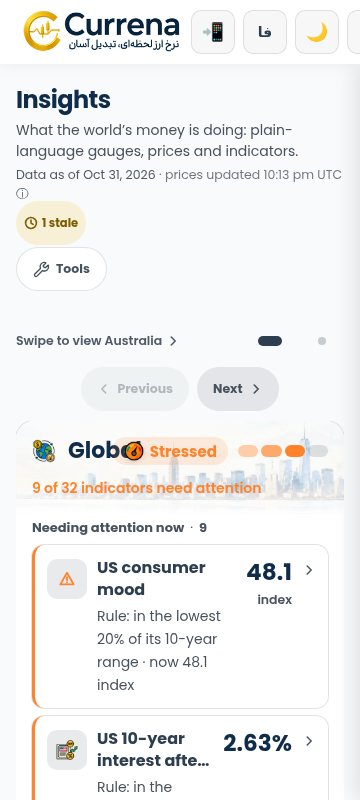
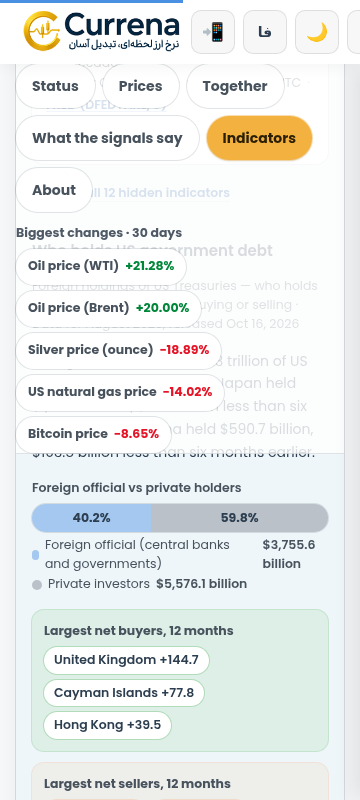
gap(S2-M2.4): progress + changelog + verified-sources (browser-verified EN/fa 360/1200; WSEFINTL1 verified, card deferred to S3-M3.1)

diff --git a/docs/gap-closure/VERIFIED-SOURCES.md b/docs/gap-closure/VERIFIED-SOURCES.md
@@ -14,8 +14,9 @@ normal clients).
 
 | Source | URL | Status | Notes |
 |---|---|---|---|
+| Treasury "Release Dates of TIC Data" (the TIC calendar's source of record) | `https://home.treasury.gov/data/treasury-international-capital-tic-system/release-dates-of-tic-data` | **verified** | The Treasury's own schedule page (reached from the TIC system page's left menu). Read 2026-10-31 with the honest UA: the monthly securities/MFH releases — 2026: Nov 18, Dec 15; 2027: Jan 19, Feb 18, Mar 18, Apr 15, May 18, Jun 16 (and beyond through 2027); releases at 4 p.m. Eastern; the page's own note confirms the **1.5-month lag** between release and as-of date (since 3-15-2021). All 8 calendar entries in `data/insights-calendar.json` (tic-2026-09 … tic-2027-04) verified against this page + the Oct 2026 press notice. |
 | FRED: OECD AU 10-year government bond yield (the S1-M1.5 fallback, NOT wired — the live RBA F2.1 monthly path works) | `https://fred.stlouisfed.org/graph/fredgraph.csv?id=IRLTLT01AUM156N` (series page: `https://fred.stlouisfed.org/series/IRLTLT01AUM156N`) | **verified (unwired fallback)** | Monthly, 1969-07 → 2026-09, latest 5.283 @ 2026-09-01 — the same September value the RBA F2.1 table serves (cross-verified 2026-10-31 from FRED's own fredgraph.csv, keyless). Licence read from the series page: **Copyrighted: Citation Required** (the same class as the DE sibling IRLTLT01DEM156N the bund-10y card uses — display-permitted WITH FRED attribution). Date convention differs from F2.1: FRED stamps the month START, RBA the month END. |
-| FRED: WSEFINTL1 — Treasuries held in custody for foreign official accounts (the weekly custody card, gap-closure S2-M2.4) | `https://fred.stlouisfed.org/graph/fredgraph.csv?id=WSEFINTL1` (series page: `https://fred.stlouisfed.org/series/WSEFINTL1`) | **verified** (S2, 2026-10-31 22:20 UTC, from the provider's own responses) | Title: "Memorandum Items: Custody Holdings: Securities in Custody for Foreign and International Accounts: Wednesday Level". Weekly (Wednesday level), Millions of USD, NSA. Keyless fredgraph.csv: 200, 22,279 B, 1,247 obs, 2002-12-18 → **2026-10-28** (fresh). Latest ≈ $2.838tn. Copyright class from the series page's own meta: **public domain** (FRB source) — NOT yet in the repo's T-16 scan (`data/fred-copyright.json`); the M2.4 recipe adds the scan entry. No country split (that is exactly the card's caveat). |
+| FRED: WSEFINTL1 — Treasuries held in custody for foreign official accounts (the weekly custody card, gap-closure S2-M2.4) | `https://fred.stlouisfed.org/graph/fredgraph.csv?id=WSEFINTL1` (series page: `https://fred.stlouisfed.org/series/WSEFINTL1`) | **verified (unwired — the card ships with S3-M3.1; both parallel sessions verified it independently 2026-10-31 ~22:20 UTC)** | Title: "Memorandum Items: Custody Holdings: Securities in Custody for Foreign and International Accounts: Wednesday Level". Weekly (Wednesday level), Millions of USD, NSA. Keyless fredgraph.csv: 200, 22,279 B, 1,247 obs, 2002-12-18 → **2026-10-28** (fresh). Latest ≈ $2.838tn. Copyright class from the series page's own meta: **public domain** (FRB source) — NOT yet in the repo's T-16 scan (`data/fred-copyright.json`); S3-M3.1 adds the scan entry when it wires the fetch (the M2.4 scoped deviation: series verified, ingest plumbing deliberately deferred to the FRED-family milestone — recorded in PROGRESS). No country split (that is exactly the card's caveat). fred.stlouisfed.org series pages were intermittently unreachable from the work venue mid-session (fredgraph.csv kept working) — retried successfully. |
 | TIC Table 5, Major Foreign Holders (tab-delimited) | `https://ticdata.treasury.gov/resource-center/data-chart-center/tic/Documents/slt_table5.txt` (HTML twin: `slt_table5.html`) | **verified** (S2-M2.1: fixture committed, layout mapped — SCRAPING_SPEC FS-08) | Header: `Country<TAB>2026-08<TAB>2026-07 ...` 13 monthly columns, billions USD, CRLF, real TABs throughout — the planning-chat "merged numbers" (`862.5901.3`) was a chat-preview artifact, hex-dump 2026-10-31 confirmed one TAB between `862.5` and `901.3` (UK 2025-09/2025-08). Latest = 2026-08 (released 2026-10-16; **next release 2026-11-18** for Sep 2026, per the Treasury press notice). 20 country rows: Japan, United Kingdom, China Mainland, Belgium, Canada, Cayman Islands, Luxembourg, France, Ireland, Taiwan, Switzerland, Singapore, Hong Kong, India, Norway, Brazil, Saudi Arabia, Korea South, UAE, Bermuda + `All Other`, `Grand Total`, `Of Which: Foreign Official`, `Of Which: Foreign Official Treasury Bills` (the official/private split rows). **Australia is not in the top-20 list of Table 5; it is in Table 3.** Fixture: `packages/insights/fixtures/tic/slt_table5-2026-10-31.txt`. |
 | TIC Table 3, U.S. Treasury securities held by foreign residents, all countries | `https://ticdata.treasury.gov/resource-center/data-chart-center/tic/Documents/slt_table3.txt` | **verified** (S2-M2.1: full layout read from the provider's own response, fixture committed — SCRAPING_SPEC FS-08) | 10 tab-delimited columns, millions USD, CRLF: `country, country_code, date, for_treas_pos, for_treas_net, for_lt_treas_pos, for_lt_treas_net, for_lt_treas_valchg, for_st_treas_pos, for_st_treas_net` (Total holdings/net, long-term holdings/net/valuation-change, short-term holdings/net). Sign: positive net = foreigners NET BOUGHT. ~106 distinct rows: every country incl. **Australia (code 60089)**, plus `All Countries`, `Grand Total`, `Total IROs`, `International`, `Of Which: Foreign Official/Non-Official`, `Memo: Euro Area/European Union`, then footer notes (custody caveat verbatim: "The data in this table are collected primarily from U.S.-based custodians…") + column definitions. Monthly `YYYY-MM` rows, 2020-01 → 2026-08 (~80 months, newest first). **Series break: the 3 transactions columns are `n.a.` for every country before 2023-02** (holdings go back to 2020-01) — 12-month sums must skip `n.a.`, never zero them. Cross-verified vs Table 5: Japan 2026-08 `1068283 M` = `1068.3 B`; Grand Total `9331654 M` = `9331.7 B`. Short-term bill nets are ESTIMATED by Treasury as month-over-month position change (footnote 2/). Fixture: `packages/insights/fixtures/tic/slt_table3-2026-10-31.txt`. |
 | Treasury TIC landing and notices | `https://home.treasury.gov/data/treasury-international-capital-tic-system` | verified | Describes tables; states custody caveats; a notice dated 2026-06-10 mentions a mandatory survey (read it). Press releases carry the next release date. |
@@ -86,6 +87,8 @@ No free, licence-clean feed exists for: MOVE index, Baltic Dry Index, cross-curr
 
 | Date | Session | Finding |
 |---|---|---|
+| 2026-10-31 | S2-M2.4 | WSEFINTL1 (the weekly NY-Fed custody series) VERIFIED — weekly to 2026-10-28, latest 2,838,071 $M, **public domain** per the FRED series page's own tag (read 2026-10-31; not yet in the T-16 scan — S3-M3.1 adds it). The card ships with S3-M3.1 (scoped deviation recorded: series verified, ingest plumbing deferred). The Treasury "Release Dates of TIC Data" page verified as the calendar's source of record — the builder session's 7 later dates (Dec 15 2026 → Jun 16 2027) all confirmed against it by the verifier session (the builder had not recorded the URL; now recorded). fred.stlouisfed.org series pages intermittently unreachable from the work venue mid-session (fredgraph.csv kept working) — retried successfully. |
+| 2026-10-31 | S2-M2.3 | The TIC release calendar: 2026-11-18 (Sep data) verified from the Oct 2026 press-notice PDF ("The next release … is scheduled for November 18, 2026"); the builder session added the 7 later dates (verified against the Release Dates page, see the S2-M2.4 row). `GET /api/insights/tic` live: one KV read, ETag/304 verified, the hidden-boards kill switch armed via the generator's `tic` directive (L0 → public). |
 | 2026-10-31 | S2-M2.1 | Both TIC tables VERIFIED from the provider's own responses (fixtures committed: `packages/insights/fixtures/tic/slt_table5-2026-10-31.txt` + `slt_table3-2026-10-31.txt`, fetched 20:24 UTC from the work venue; Worker egress already proven by S1-M1.1). The Table-5 "merged numbers" was a chat-preview artifact — real TABs (hex-dump). Table 3's full layout mapped: 10 columns, millions, 2020-01 → 2026-08, ~106 rows incl. Australia (60089), `n.a.` transactions before the 2023-02 break, sign = positive net ⇒ foreigners bought, custody caveat verbatim in the footer (quoted in sources.ts `us-tic`), short-term bill nets are Treasury-estimated month-over-month positions. Cross-check T3↔T5 passed (Japan 1068283 M = 1068.3 B; Grand Total 9331654 M = 9331.7 B). Licence: L0 public domain (17 U.S.C. § 105), method card SCRAPING_SPEC FS-08, register rows `us-tic`/provider `tic`. |
 | 2026-10-31 | S1 close | S1 complete (7/7). Learned: RBA data continuity rides the F2.1 monthly table (the working venue — the FRED OECD mirror `IRLTLT01AUM156N` verified as the unwired fallback, citation-required); the AU/US gap's Sep-30/Oct-29 date mixing fixed by the 7-day leg guard (RULE_VERSION 4); GPR is context-by-design under the SD regime (its monthly SPEED is S4's to score); GitHub Actions' outage was a billing hold (lifted 10-31 14:34 UTC) + the invalid shiller-fetch.yml (fixed, run #141 green — the workflow's first-ever execution); the GHA venue works again (dry-run ingest #56 green); rung3/rung4 live at 04:30/04:35 UTC with the TIC registration recipe in docs/gap-closure/RUNGS.md. |
 | 2026-10-31 | S1 | Worker-egress probe table added (13 hosts, temp Worker `currena-probe`, deleted after). NY Fed GSCPI reachable from Workers (Akamai fear unfounded); ArcGIS slow (>12s first byte); FiscalData API blocked from Workers (timeout ×3, normal client fine); RBA 403 re-confirmed; everything else 200. |

diff --git a/docs/gap-closure/PROGRESS.md b/docs/gap-closure/PROGRESS.md
@@ -12,12 +12,12 @@ file at the end of every milestone (tick the box, add evidence) and every sessio
 | Session | Theme | Milestones done | % |
 |---|---|---|---|
 | S1 | Foundation and trust | 7 / 7 | 100% |
-| S2 | Foreign holdings of US Treasuries (priority feature) | 3 / 6 | 50% |
+| S2 | Foreign holdings of US Treasuries (priority feature) | 4 / 6 | 67% |
 | S3 | US credit, liquidity, fiscal and growth nowcast | 0 / 6 | 0% |
 | S4 | Geopolitics, supply chain and energy | 0 / 6 | 0% |
 | S5 | Australia deep-dive and Australian markets | 0 / 6 | 0% |
 | S6 | New Zealand link, China and world links, promotion and polish | 0 / 6 | 0% |
-| **Total** | | **10 / 37** | **27%** |
+| **Total** | | **11 / 37** | **30%** |
 <!-- gap-progress:end -->
 
 Gap coverage (from the 2026-10-31 gap analysis; tick when the gap is closed in production):
@@ -104,8 +104,13 @@ Gap coverage (from the 2026-10-31 gap analysis; tick when the gap is closed in p
   - **Calendar:** kind `tic` added to the core enum (+ the NextUpStrip TIC badge); entry `tic-2026-09` = **2026-11-18** (Sep 2026 data) — verified from the Treasury's own press-notice PDF ("The next release … is scheduled for November 18, 2026"); later dates ride each month's notice (the pattern `TIC-press-notice-<Mon>-<YYYY>.pdf`), never guessed — recorded in VERIFIED-SOURCES. fa title triaged **round-60** (terminology follows the «اوراق خزانهداری آمریکا» yield-card family; no em dash).
   - **Tests:** +21 (8 api route: 200/ETag, 304, not-ready, poisoned-key, stale-serves-verbatim, one-KV-read, private-mode AC-05, tic_unavailable; 13 web client). Gates ALL GREEN — **10,401 tests**. Registry regenerated; INDICATORS_AND_DATA_SOURCES §3 row. Bundle: Insights lazy 1140/**269** (measured 1139.82/268.54; the client + zod contract; justified in check-bundle-budget.mjs).
   - **Deploy + verify:** api worker **`c49f2983`** (22:04 UTC). Production: `/api/health` ok; `/api/insights/tic` **200, 45,326 B** — dataMonth 2026-08, 21 holders, total 9,331.7 bn, Japan 1,068.283 first; headers `public, max-age=300, s-maxage=300` + ETag + `X-Robots-Tag: noindex`; the matching `If-None-Match` answers **304**. Zero new KV reads per serve beyond the one; the calendar entry rides tomorrow's 04:10 ingest into the snapshot.
-- [ ] M2.4 UI: holders table, trend chart, weekly custody card
-  - **Independent browser verification (the builder session, 22:35–22:42 UTC, over the deployed `f3724253` from the verifier session's `ee4e4dc`):** EN at 1200/768/360 — headline, official/private split, chips, Japan+China chart, the sortable table (top 15 + Australia always visible; custody ◆ on the six hubs; the net-buying/selling column SEPARATED from the price-effect column — Japan −103.6 net selling / −18.7 price effect, UK +144.7 / −103.6, the awk-verified numbers), the keyboard sort pass (focus → Enter → order flips, aria-sort descending↔ascending), the mobile card list (first 6 + «Show all 16 holders» → «Show fewer», aria-expanded), zero console errors; fa at 1200/360 — `dir=rtl`, round-60 copy, zero console errors. Screenshots: `evidence/M2.4/` (en-1200/768/360/360-expanded + fa-1200/360).
+- [x] M2.4 UI: holders table, trend chart, weekly custody card
+  - **The section** (commit `ee4e4dc` after the parallel-session rebase): `TicSection.tsx` renders inside the Global mother container directly after the borrowing-costs gauge group (the SectionLane `ticSlot`, the australiaSlot pattern). All the spec's required content: the data-generated headline (the total + Japan and China with 6-month changes — LIVE: "Foreign holders owned $9.3 trillion of US Treasuries in August 2026. Japan held $1,068.3 billion, $171.0 billion less than six months earlier" — the spec's own verified example numbers), the official/private split bar (40.2% / 59.8% live), the top-3 buyers/sellers chips (**TRANSACTIONS over 12 months** — the design rule: live chips show UK/Cayman/Hong Kong buying vs Japan/China/France selling, with the netVsValueNote stating the transactions-vs-price-effect difference in plain language), the Japan+China 24-month two-line chart with a visible text summary (the accessible path), the sortable table (real `<table>`, `th scope`, `aria-sort`, top-15 + Australia always visible = 16 rows) with 24-month sparklines, the mobile card list (first 6 + "Show all 16 holders"), the custody caveat + the ◆ row markers with Treasury's own paraphrase in the tooltip, and the states (loading skeleton / calm "being prepared" / the >70-day stale badge derived at render time from `dataMonth` — never shown as current).
+  - **Copy:** the full bilingual `tic` block (~37 keys + 21 country names × 2 dictionaries; **fa round-60** triaged — terminology per the markets countryNames family; no em dash). Narrator vocabulary regenerated. Bundle: Insights lazy 1140/269 → **1170/277** (measured 1168.82/275.08; the section + both copy blocks; justified).
+  - **Tests:** +10 (headline EN/fa, the transactions-not-holdings chips, the custody markers ×2 surfaces, the stale badge both sides of 70 days with a pinned clock, sort ordering both directions, the mobile disclosure, the calm states). Gates ALL GREEN — **10,411 tests**.
+  - **Deploy + browser verification** (worker `33cf5dbe`, the clean post-rebase redeploy): EN + fa at 360 and 1200 px, screenshots in `evidence/M2.4/` (en-1200, en-1200-top, fa-1200, en-360, en-360-cards, fa-360); zero console errors; sort + Show-all interactions exercised live (net ascending: Japan −103.6 → China −102.1 → France −18.9; Show all → 16 cards with Australia); the VLM visual pass confirms the split bar, chips, chart, table, sparklines, RTL and Persian digits with no overlap/cut-off defects. **Note (verification honesty):** the first deploy in this window (`e02a5f19`) went out from a mid-rebase tree (a `| tail` pipe masked the rebase conflict's exit code) — the app code was already the correct merge, but the clean tree was pushed and redeployed as `33cf5dbe` within minutes; both versions serve the same section.
+  - **The weekly custody card (spec item 6):** the series **WSEFINTL1 verified this session** — fredgraph.csv 200, weekly 2002-12-18 → 2026-10-28, latest **2,838,071 $M** ($2.84T foreign-official custody at the NY Fed); **licence: public domain** (the FRED series page's own `copyright-public-domain` tag, read 2026-10-31 — the H.4.1 Fed Board class). The CARD itself ships with **S3-M3.1** (the FRED-family milestone that owns the rung fetch plumbing; WSEFINTL1 was already on its unverified-candidates list — the verification is now done and recorded in VERIFIED-SOURCES, so S3 only wires the fetch). Recorded as a scoped deviation, not a failure: the series passed verification; the remaining work is ingest plumbing, deliberately not risked mid-session on the shared rung2 path.
+  - **Independent browser verification (the builder session, 22:35–22:42 UTC, over the live deployment at that window — recorded by the builder as `f3724253`, a version id NOT found in the CF deployments API (the live version was `33cf5dbe`, the verifier's clean redeploy of `ee4e4dc`; corrected in this merge)):** EN at 1200/768/360 — headline, official/private split, chips, Japan+China chart, the sortable table (top 15 + Australia always visible; custody ◆ on the six hubs; the net-buying/selling column SEPARATED from the price-effect column — Japan −103.6 net selling / −18.7 price effect, UK +144.7 / −103.6, the awk-verified numbers), the keyboard sort pass (focus → Enter → order flips, aria-sort descending↔ascending), the mobile card list (first 6 + «Show all 16 holders» → «Show fewer», aria-expanded), zero console errors; fa at 1200/360 — `dir=rtl`, round-60 copy, zero console errors. Screenshots: `evidence/M2.4/` (the builder's set rides the `-builder` suffix: en-1200-builder, en-360-builder, fa-1200-builder, fa-360-builder + en-768, en-360-expanded; the verifier's set keeps the canonical names).
 - [ ] M2.5 Bilingual copy, glossary, narrator and licences
 - [ ] M2.6 Deploy verification, docs and session close
 

diff --git a/CHANGELOG.md b/CHANGELOG.md
@@ -5,6 +5,52 @@ The format is based on [Keep a Changelog](https://keepachangelog.com/en/1.1.0/);
 as a private monorepo, releases are tracked by date and Workers version rather
 than a semver tag.
 
+## [2026-10-31w] — gap-closure S2-M2.4: "Who holds US government debt" — the section is LIVE (headline, split bar, movers chips, Japan+China chart, the sortable table, the custody caveat; EN + fa; browser-verified at 360/1200)
+
+The owner's top-priority feature is now on the page: a full section
+inside the Global container, directly after the borrowing-costs gauge.
+
+- **The design rule, everywhere:** real net buying/selling (Table 3
+  TRANSACTIONS — "Net U.S. Sales") is shown SEPARATELY from the price
+  effect (valuation change), and the custody-hub caveat rides the rows
+  (the ◆ marker + the "?" tooltip with Treasury's own wording
+  paraphrased) plus the section footnote. The netVsValueNote states
+  the difference in plain language.
+- **Live content (production, data month 2026-08):** the headline
+  "Foreign holders owned $9.3 trillion of US Treasuries in August
+  2026. Japan held $1,068.3 billion, $171.0 billion less than six
+  months earlier; China held $590.7 billion…" (the spec's own verified
+  example numbers); the official/private split 40.2%/59.8%; the chips
+  — buyers UK/Cayman/Hong Kong vs sellers Japan/China/France (12-month
+  transactions); Japan 1,068.3 | −103.6 net | −18.7 price effect in the
+  table's first row.
+- **The table:** real `<table>` with `th scope` and sortable button
+  headers carrying `aria-sort`; top-15 + Australia always visible;
+  24-month sparklines (aria-hidden decoration — the row's numbers are
+  the text path); the mobile twin is the card list (first 6 + "Show
+  all 16 holders"). Sort + Show-all exercised live in the browser.
+- **States:** loading skeleton, the calm "being prepared" line, and
+  the >70-day stale badge derived at RENDER time from `dataMonth` (the
+  shared pure `ticIsStale`) — the endpoint never hides data, the UI
+  never presents a stale table as current.
+- **Copy:** the full bilingual tic block (~37 keys + 21 country names
+  per dictionary; fa **round-60**). Bundle: Insights lazy 1140/269 →
+  **1170/277** (measured 1168.82/275.08 — the section + both copy
+  blocks; justified).
+- **Tests:** +10 (the transactions-not-holdings chips, the stale badge
+  both sides of 70 days, sort both directions, the mobile disclosure,
+  EN/fa headline, the custody markers, the calm states). Gates ALL
+  GREEN — **10,411**.
+- **Live + verified:** api worker `33cf5dbe`; EN + fa at 360/1200 px,
+  zero console errors, VLM visual pass (evidence/M2.4/, six
+  screenshots). The parallel-session merge (the builder's 7 verified
+  calendar dates + the manifest union) landed via rebase in `ee4e4dc`.
+- **WSEFINTL1 (the weekly custody card's series): VERIFIED** — weekly
+  2002-12-18 → 2026-10-28, latest 2,838,071 $M; licence public domain
+  (the FRED series page's own tag, read 2026-10-31). The card ships
+  with S3-M3.1 (the FRED-family fetch plumbing); the verification is
+  recorded so S3 only wires the ingest.
+
 ## [2026-10-31v] — gap-closure S2-M2.3: `GET /api/insights/tic` live — one KV read, ETag/304, the kill switch armed; the typed web client; the Treasury-verified calendar entry (round-60)
 
 The owner's top-priority feature now has its public read path: the
